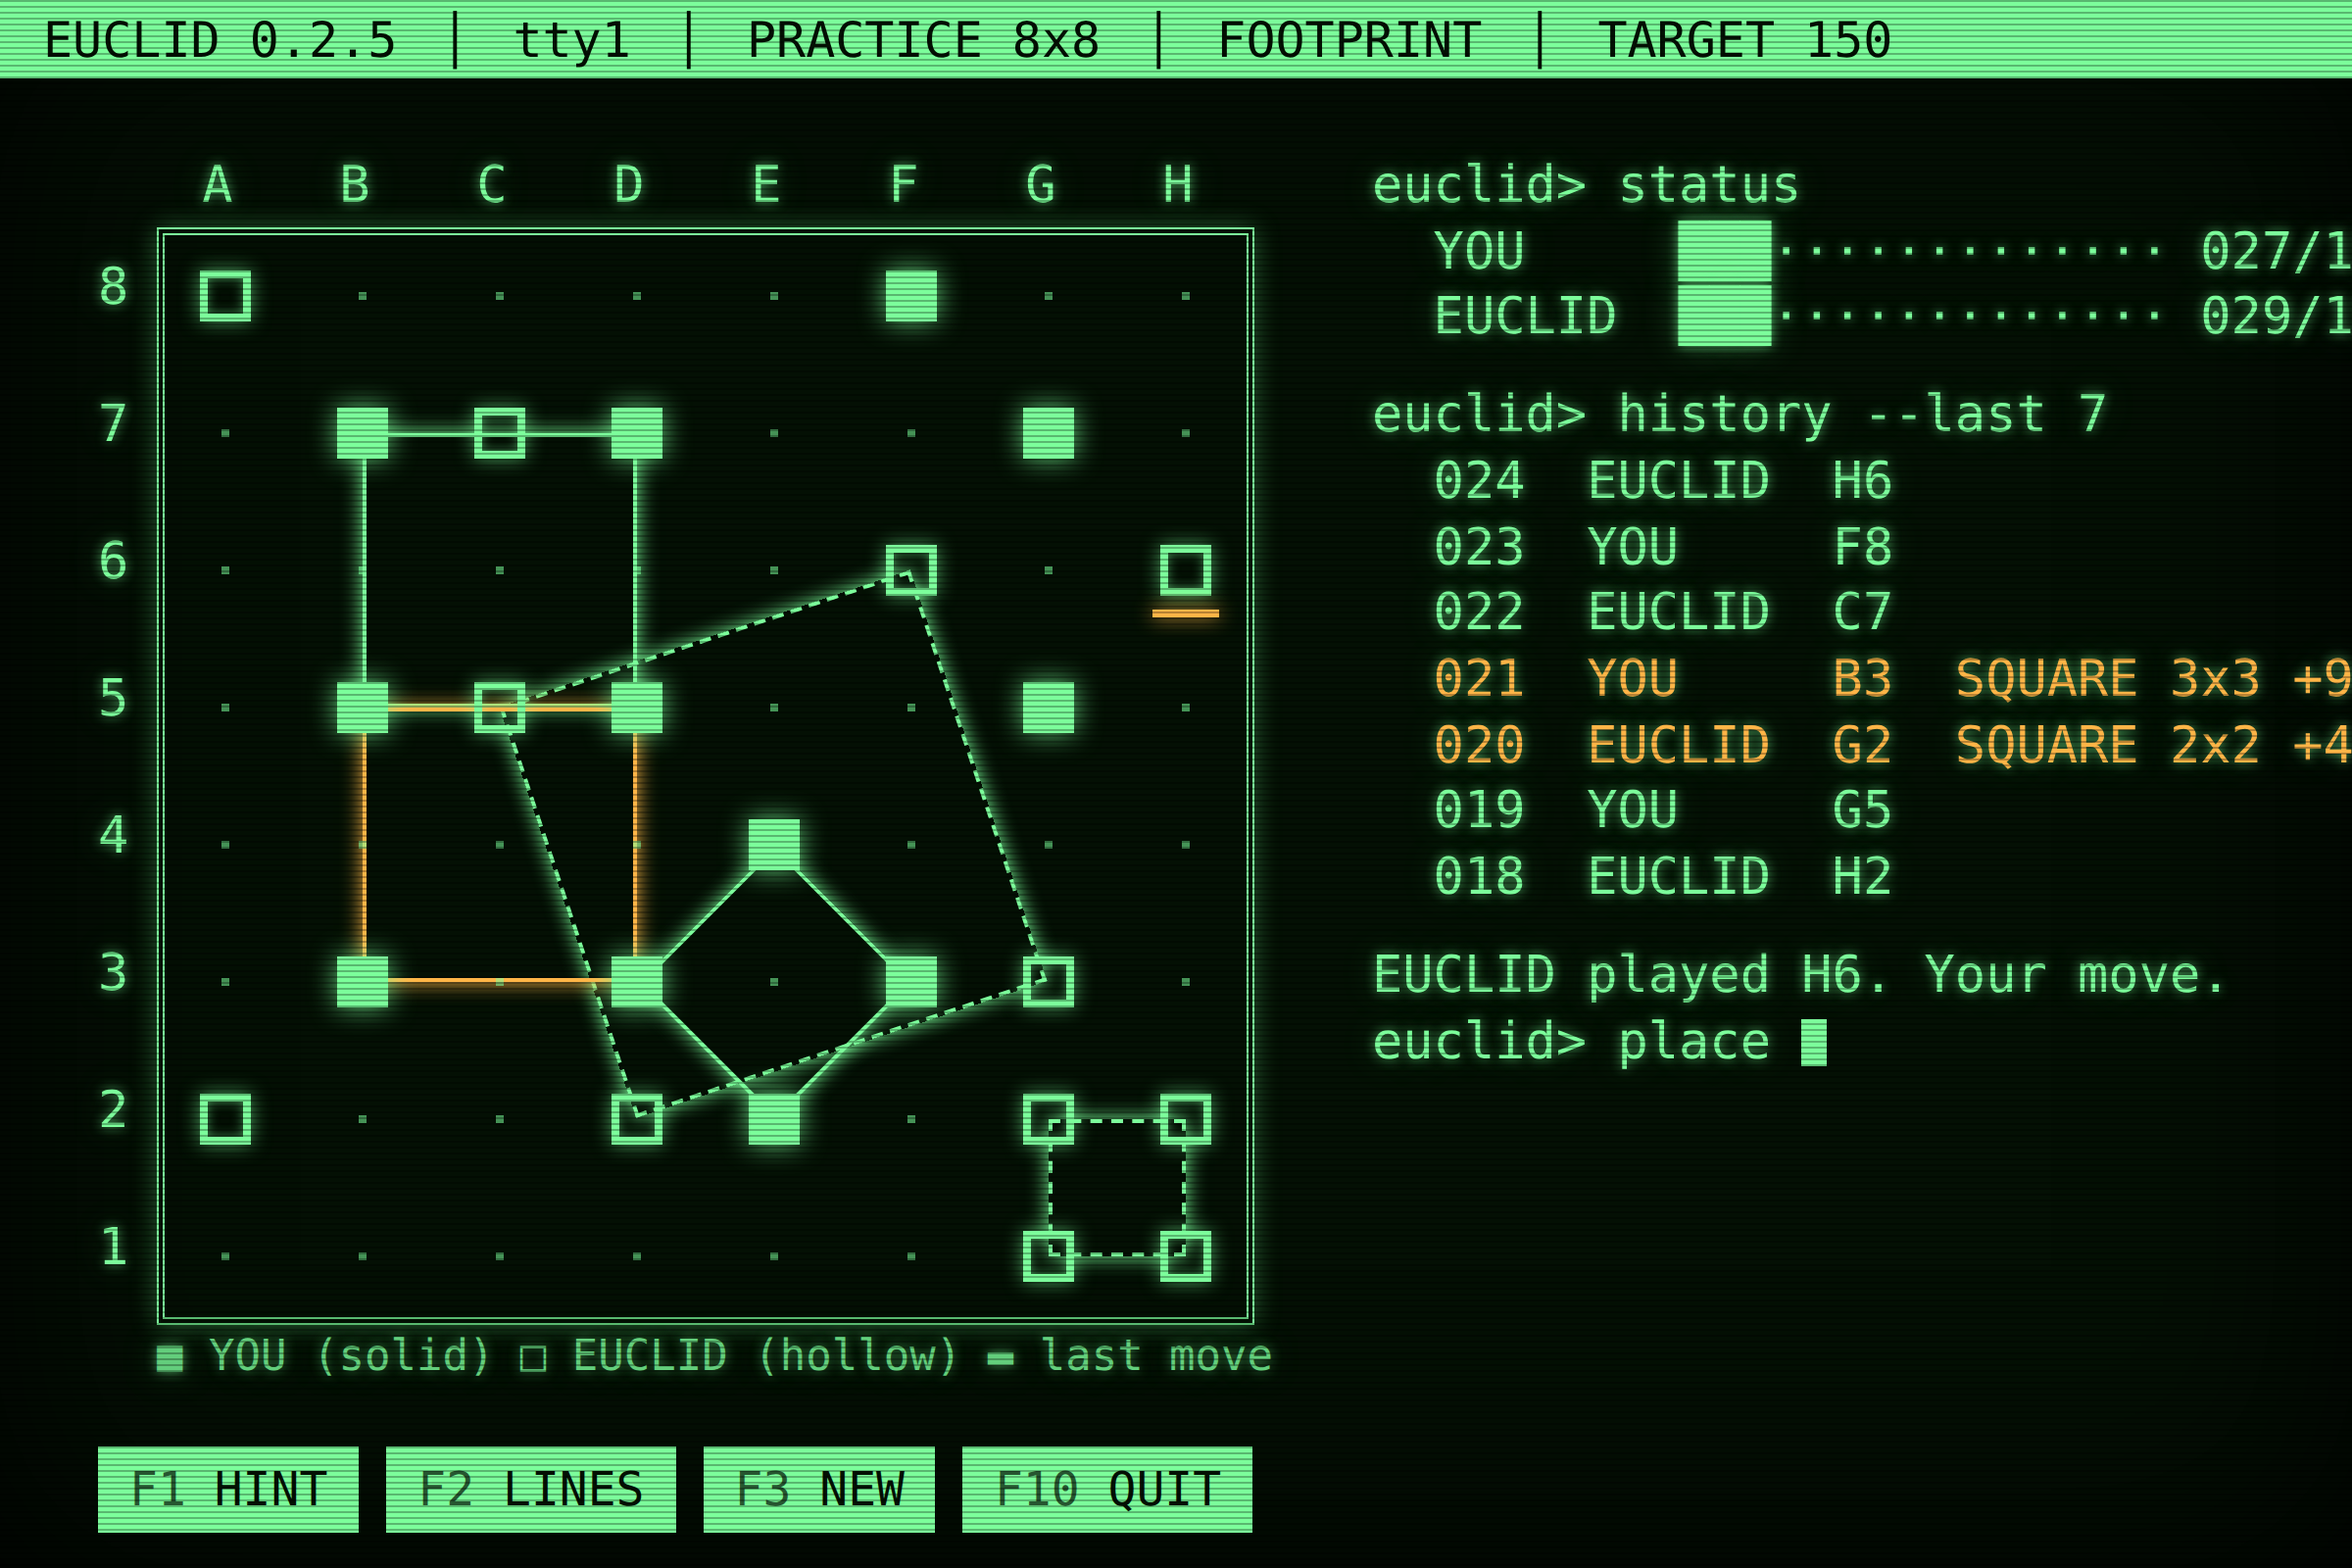
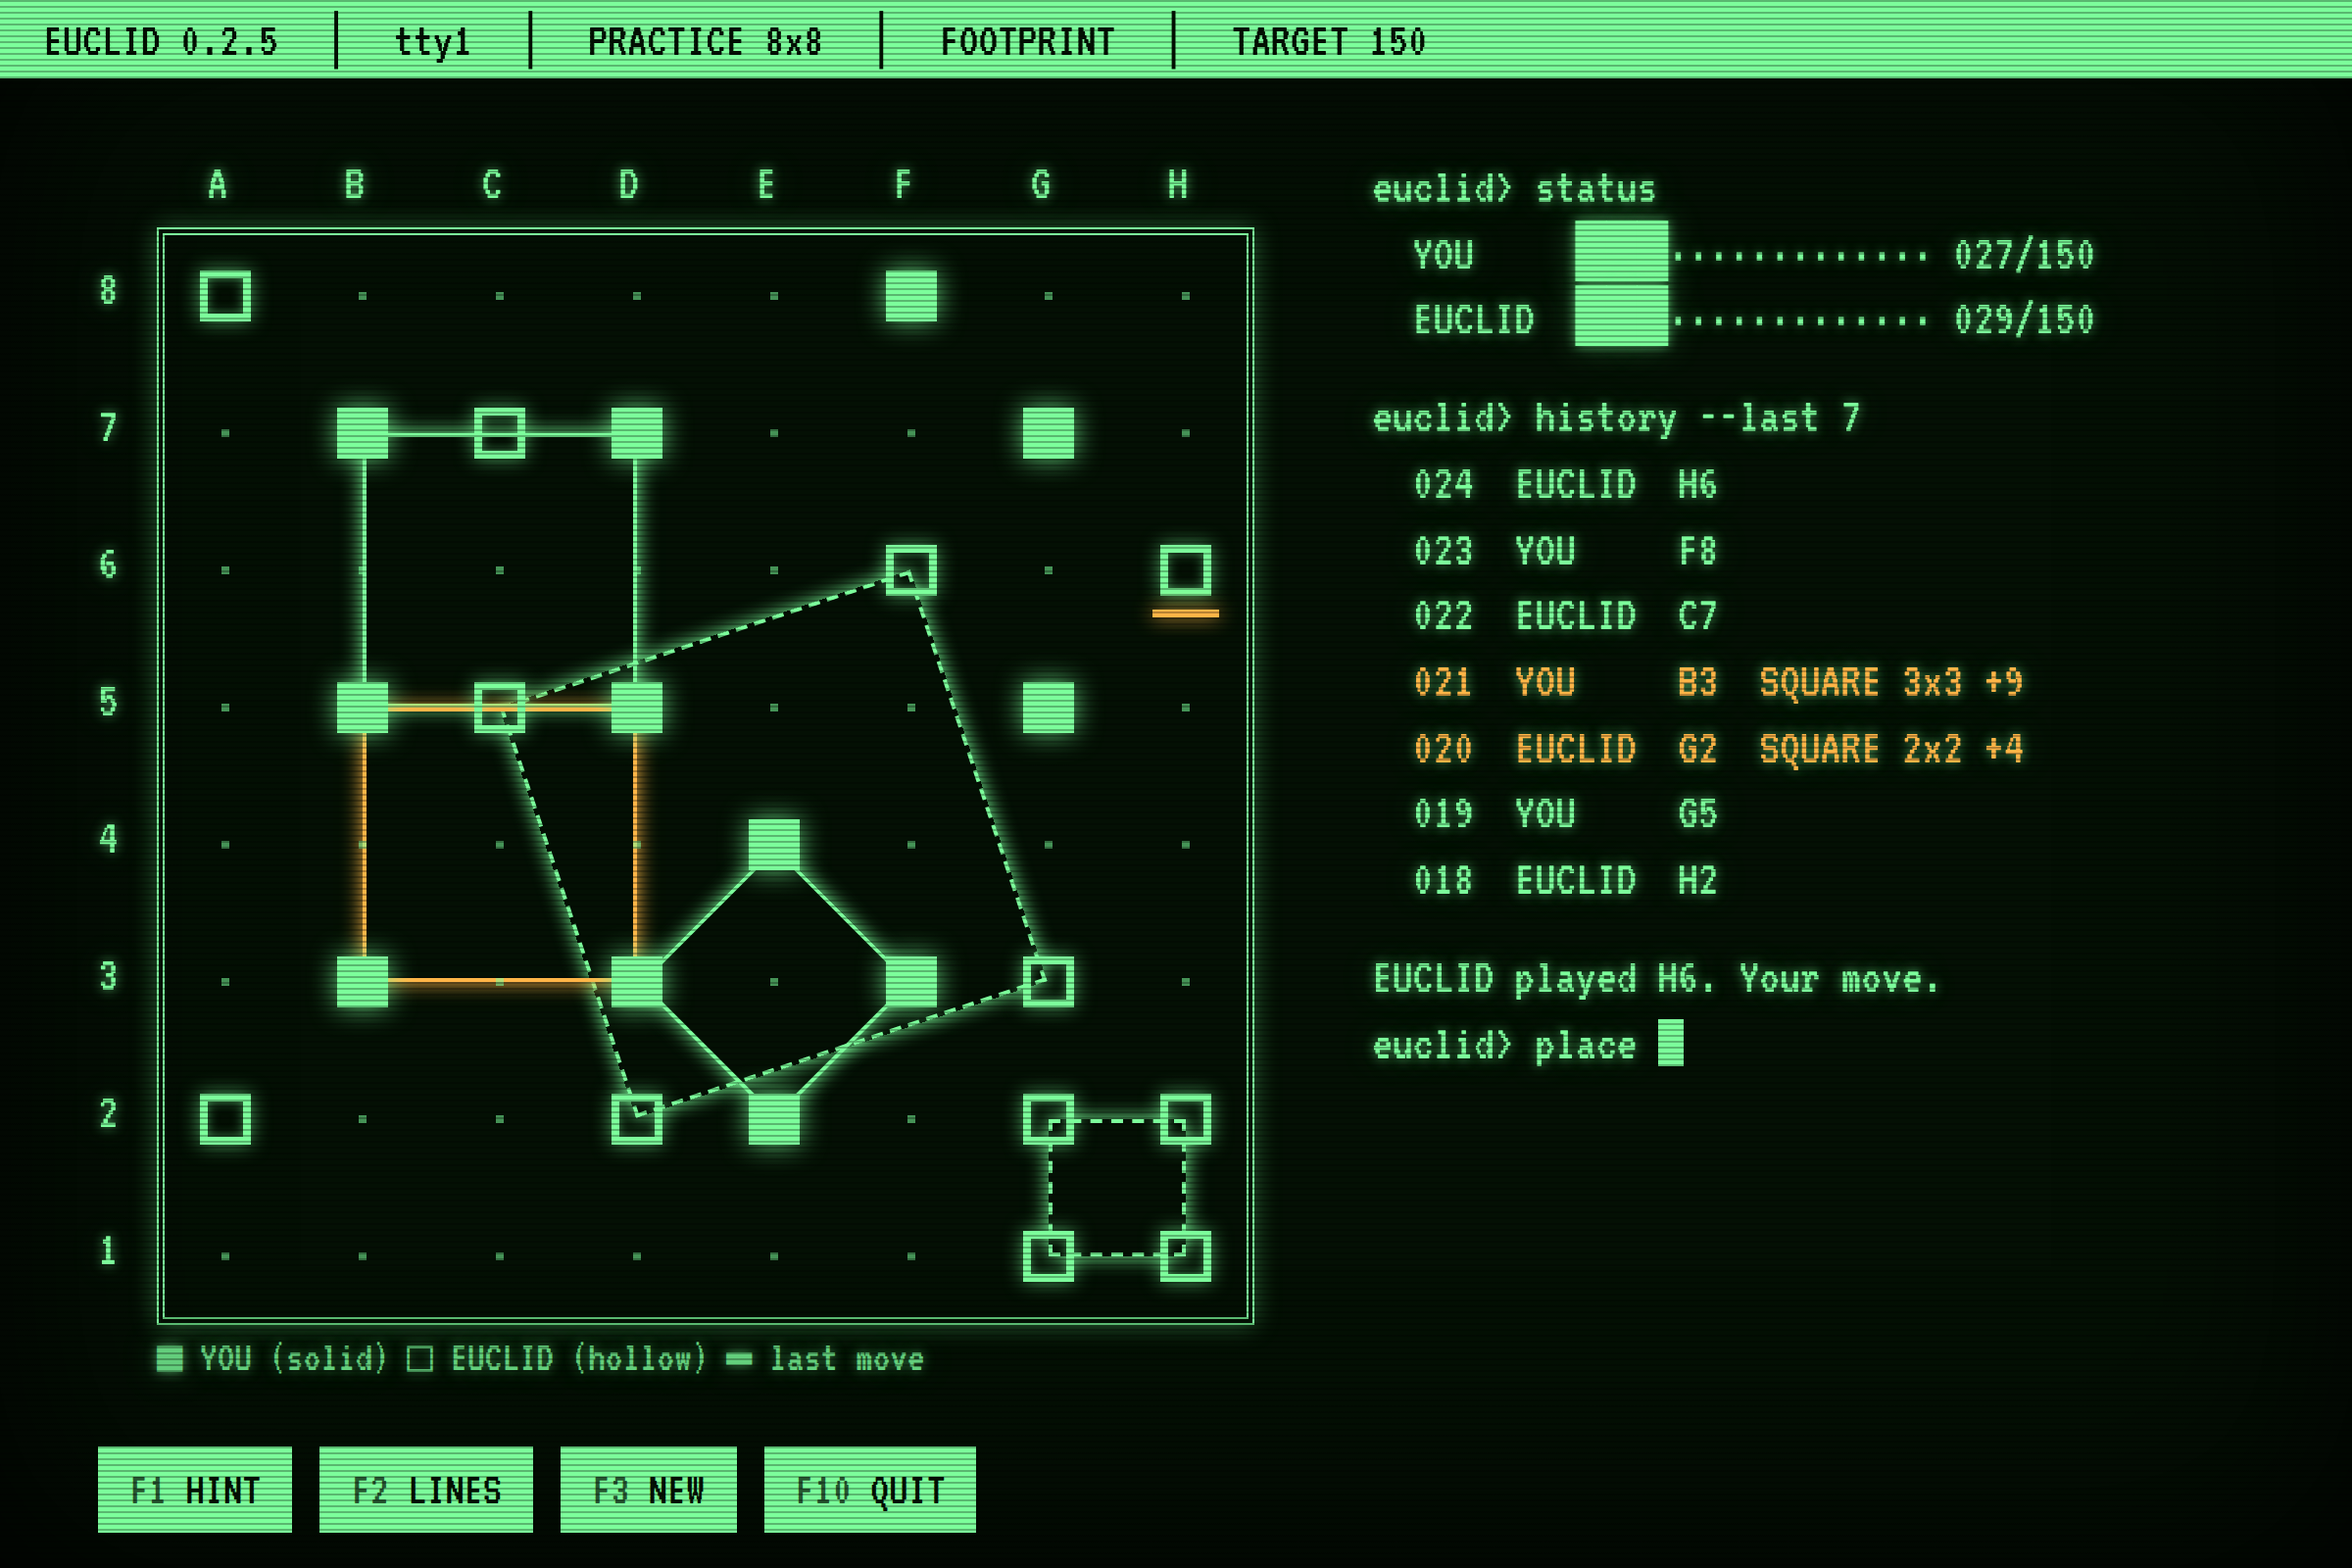
Keep the Phosphor cursor and last-move bar visible in stills

diff --git a/designs/source/09-phosphor.dc.html b/designs/source/09-phosphor.dc.html
@@ -48,7 +48,7 @@ a{color:#FFB547}a:hover{color:#FFD08A}
           <div style="position: absolute; left: {{c.x}}px; top: {{c.y}}px; width: 26px; height: 26px; margin: -13px 0 0 -13px; border: 4px solid #7CFF9B; box-sizing: border-box; box-shadow: 0 0 10px rgba(124,255,155,.6), inset 0 0 6px rgba(124,255,155,.5)"></div>
         </sc-if>
         <sc-if value="{{c.last}}" hint-placeholder-val="{{ false }}">
-          <div class="cursor" style="position: absolute; left: {{c.x}}px; top: {{c.y}}px; width: 34px; height: 4px; margin: 20px 0 0 -17px; background: #FFB547; box-shadow: 0 0 10px #FFB547"></div>
+          <div style="position: absolute; left: {{c.x}}px; top: {{c.y}}px; width: 34px; height: 4px; margin: 20px 0 0 -17px; background: #FFB547; box-shadow: 0 0 10px #FFB547"></div>
         </sc-if>
       </sc-for>
     </div>
@@ -67,7 +67,7 @@ a{color:#FFB547}a:hover{color:#FFD08A}
     </sc-for>
     <div style="height: 14px"></div>
     <div style="white-space: pre">EUCLID played H6. Your move.</div>
-    <div style="display: flex; align-items: center">euclid&gt; place&#160;<span class="cursor" style="display: inline-block; width: 13px; height: 24px; background: #7CFF9B"></span></div>
+    <div style="display: flex; align-items: center">euclid&gt; place&#160;<span style="display: inline-block; width: 13px; height: 24px; background: #7CFF9B"></span></div>
   </div>
 
   <!-- function keys -->
